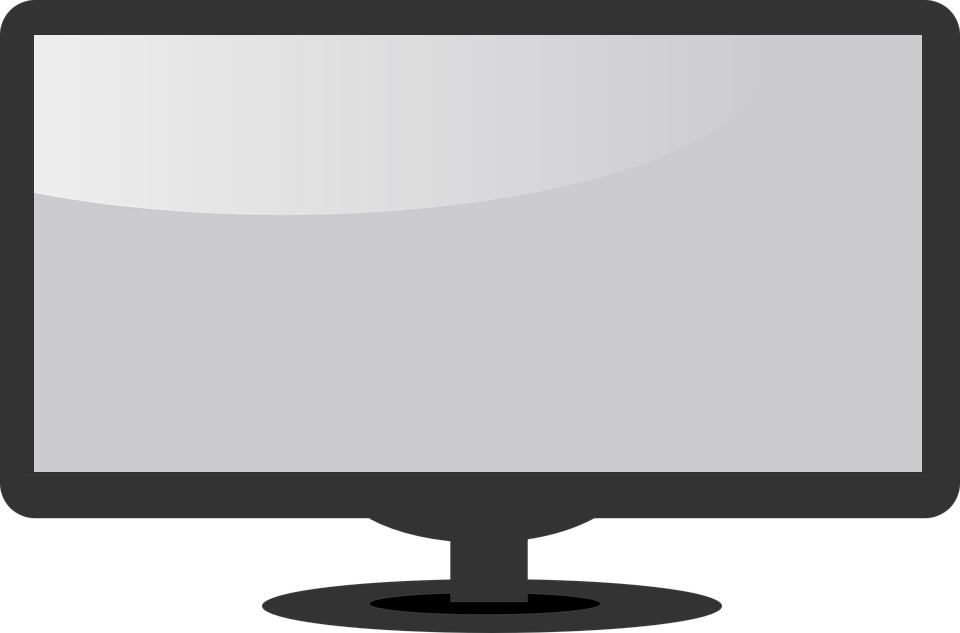
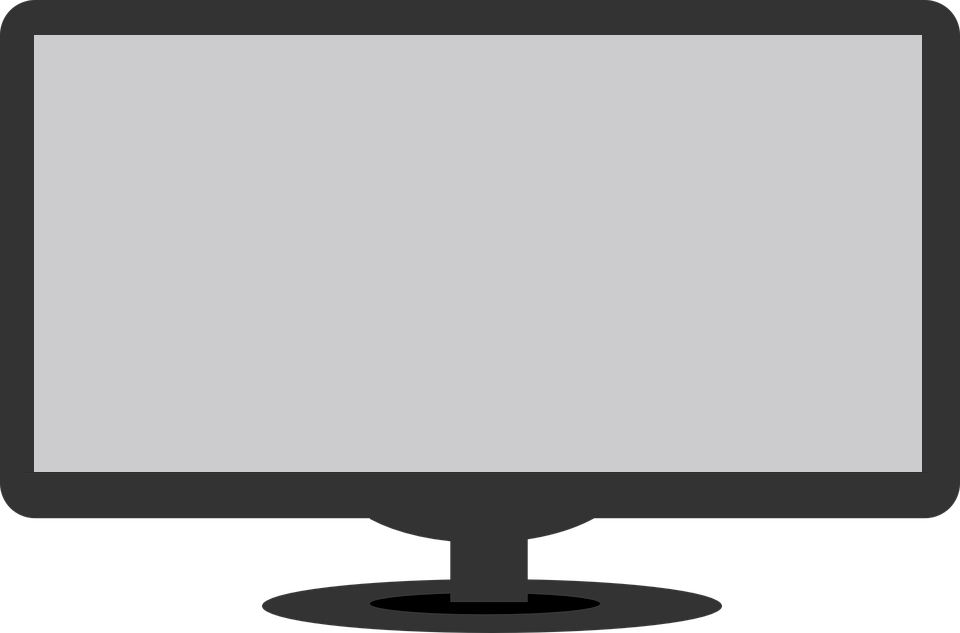
uncluttered image folder

Changed region(s): [[0.0312, 0.03, 0.25, 0.3602]]

diff --git a/index.html b/index.html
@@ -409,7 +409,7 @@ Feel free to contact me with any questions!
                                     </div>
 
                                     <p class = "full-view-left">Full View</p>
-                                    <img id = "schedule-share-img" class = "site-img-full" src = "visual/images/schedule_share_main_cropped2.png">
+                                    <img id = "schedule-share-img" class = "site-img-full" src = "visual/images/schedule_share_main.png">
                                 </div>
 
                                 <div class = "flex-row-centered">

diff --git a/visual/css/style.css b/visual/css/style.css
@@ -578,12 +578,12 @@ h1 {
 }
 
 .vid-black {
-    background: url('../images/pc_monitor_new.png') no-repeat center;
+    background: url('../images/pc_monitor.png') no-repeat center;
     background-size: 100% 100%;
 }
 
 .vid-white {
-    background: url('../images/pc_monitor_white_new.png') no-repeat center;
+    background: url('../images/pc_monitor_white.png') no-repeat center;
     background-size: 100% 100%;
 }
 
